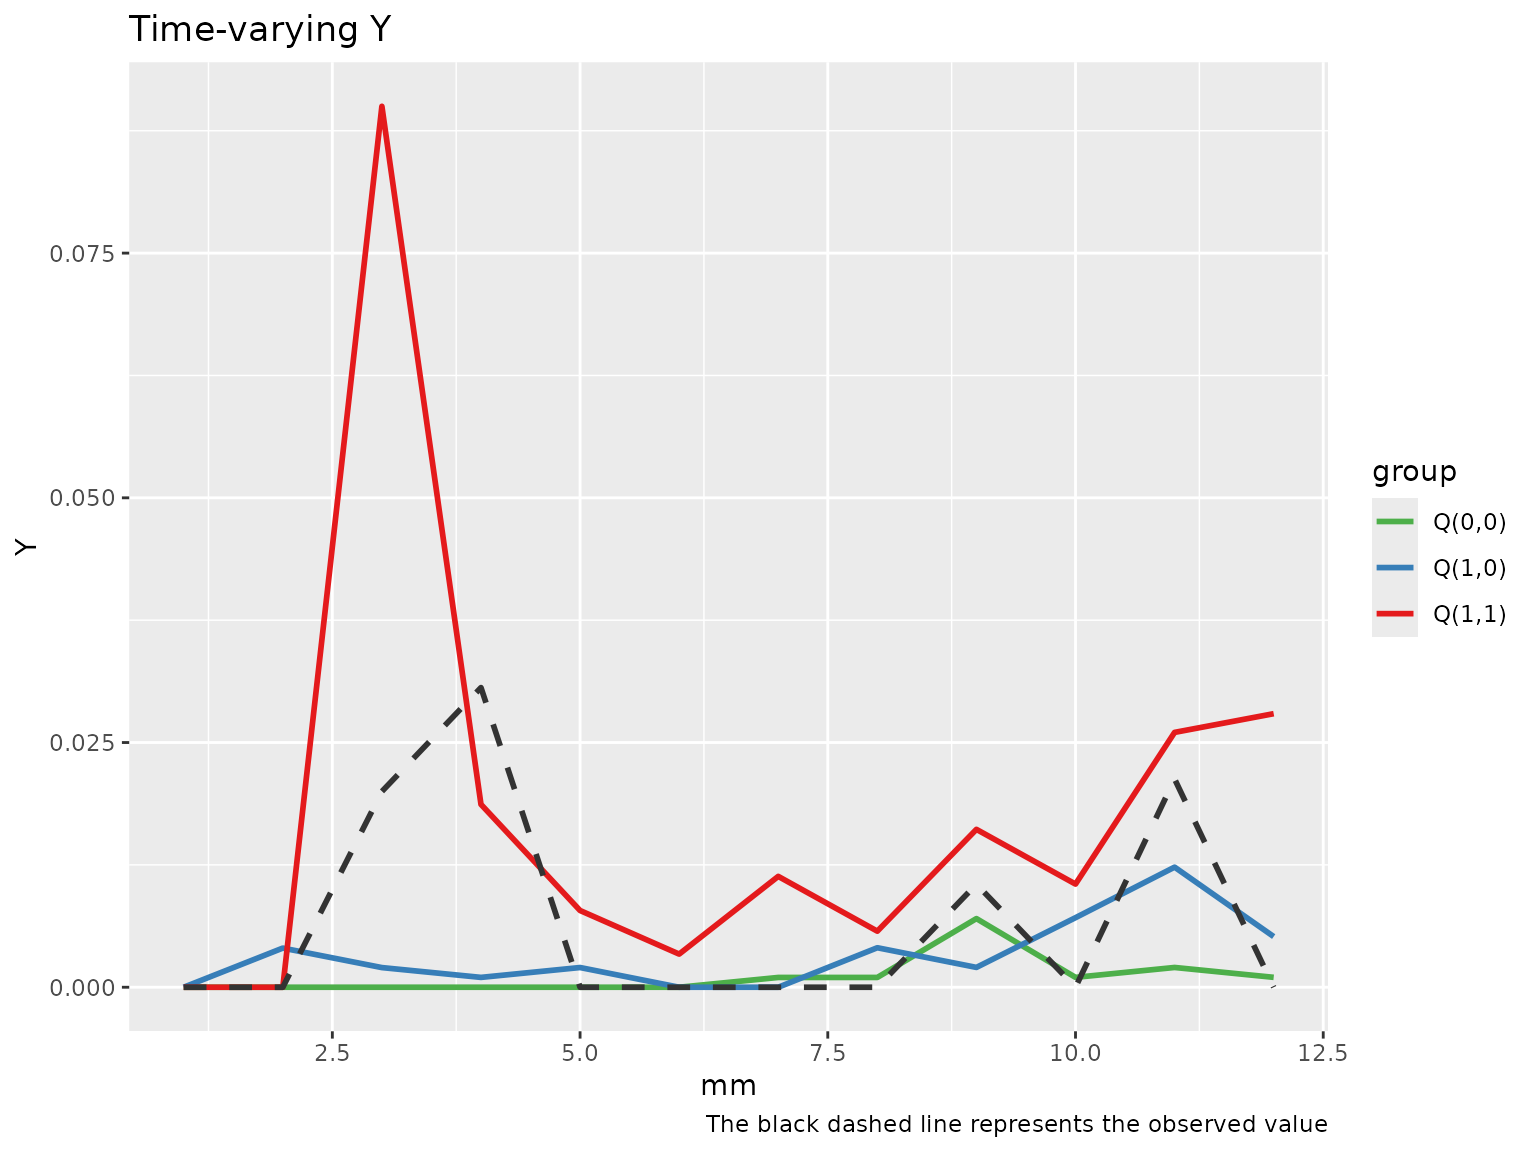
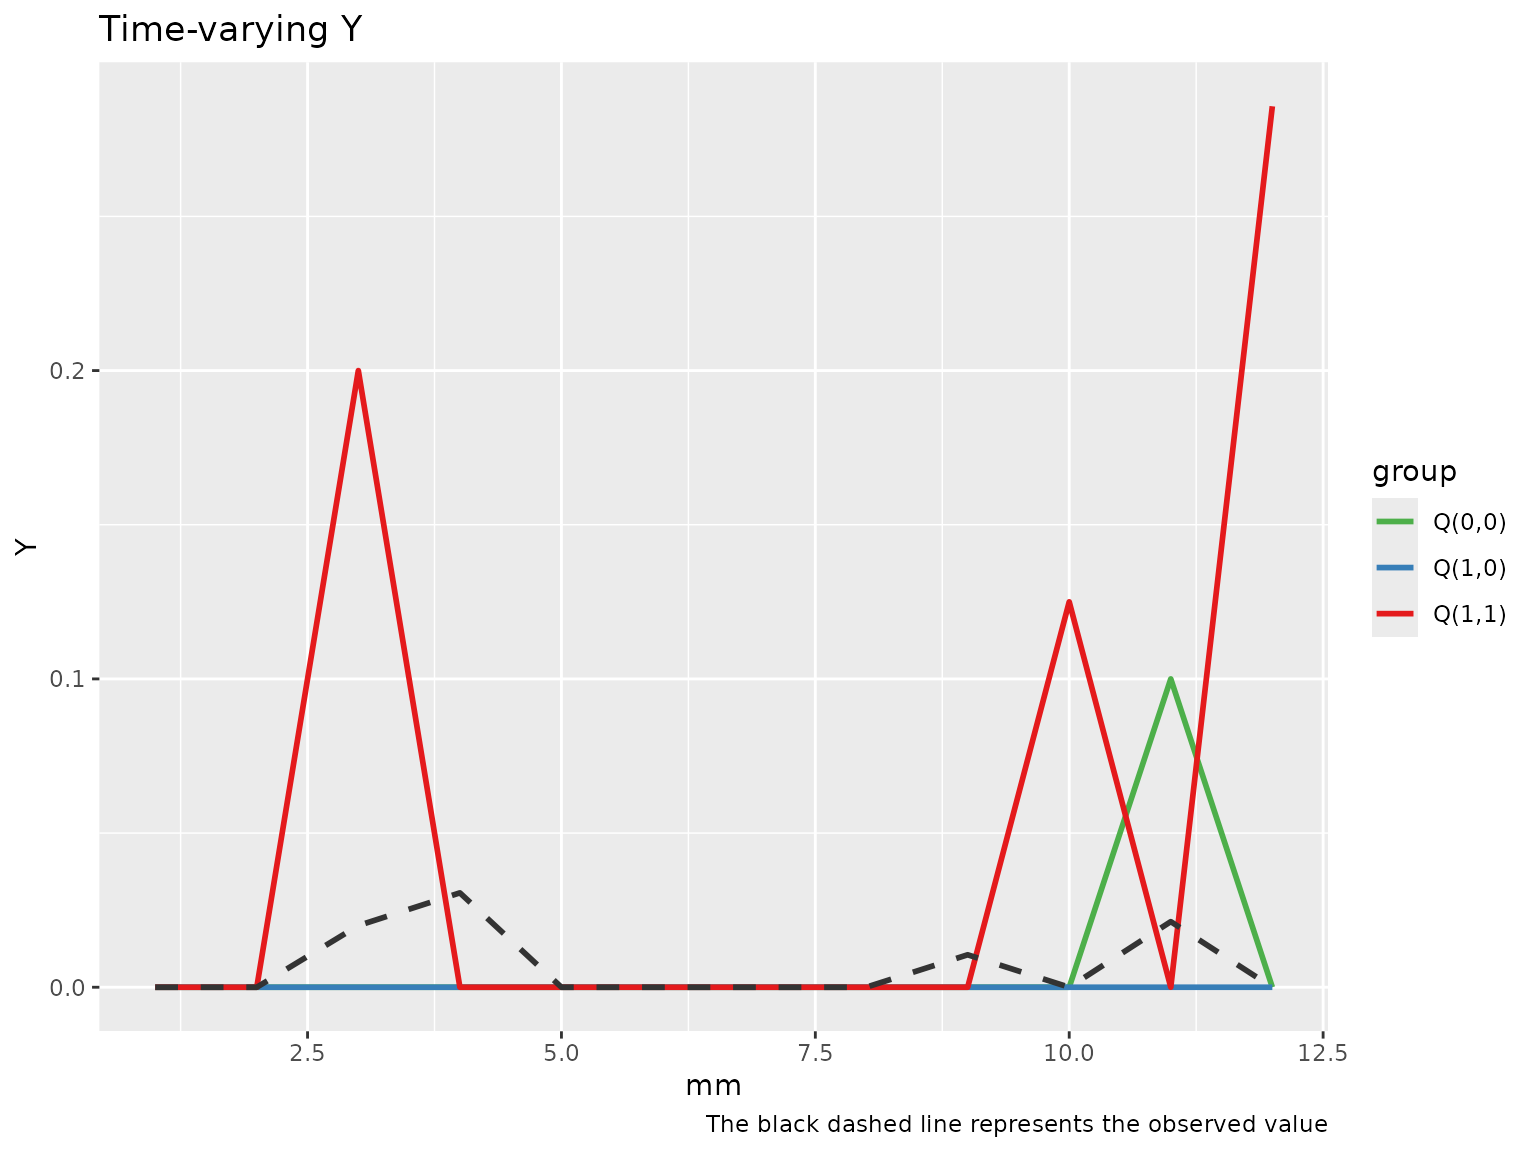
Deploying to gh-pages from @ causalepi/tvmedg@5de4c0a34f49796b642d5c7d19e0649082945fa7 🚀

diff --git a/articles/single_mediator.html b/articles/single_mediator.html
@@ -164,17 +164,17 @@ using 1000 Monte Carlo samples.</p>
 <span>                   sp_df <span class="op">=</span> <span class="fu"><a href="https://rdrr.io/r/base/c.html" class="external-link">c</a></span><span class="op">(</span><span class="fl">3</span><span class="op">)</span>,</span>
 <span>                   followup <span class="op">=</span> <span class="fl">12</span>,</span>
 <span>                   seed <span class="op">=</span> <span class="fl">123</span>,</span>
-<span>                   montecarlo <span class="op">=</span> <span class="fl">1000</span>,</span>
+<span>                   montecarlo <span class="op">=</span> <span class="fl">10</span>,</span>
 <span>                   boot <span class="op">=</span> <span class="cn">F</span>,</span>
 <span>                   parallel <span class="op">=</span> <span class="cn">TRUE</span><span class="op">)</span></span>
-<span><span class="co">#&gt; Q(a,a): 0.2 </span></span>
-<span><span class="co">#&gt; Q(a,a*): 0.039 </span></span>
-<span><span class="co">#&gt; Q(a*,a*): 0.013 </span></span>
-<span><span class="co">#&gt; Indirect (rIE): 0.161 </span></span>
-<span><span class="co">#&gt; Direct (rDE): 0.026 </span></span>
-<span><span class="co">#&gt; Total (rTE): 0.187 </span></span>
-<span><span class="co">#&gt; Proportional explain: 0.861 </span></span>
-<span><span class="co">#&gt; Total time elapsed: 6.11227 mins</span></span>
+<span><span class="co">#&gt; Q(a,a): 0.5 </span></span>
+<span><span class="co">#&gt; Q(a,a*): 0 </span></span>
+<span><span class="co">#&gt; Q(a*,a*): 0.1 </span></span>
+<span><span class="co">#&gt; Indirect (rIE): 0.5 </span></span>
+<span><span class="co">#&gt; Direct (rDE): -0.1 </span></span>
+<span><span class="co">#&gt; Total (rTE): 0.4 </span></span>
+<span><span class="co">#&gt; Proportional explain: 1.25 </span></span>
+<span><span class="co">#&gt; Total time elapsed: 5.188118 secs</span></span>
 <span><span class="fu"><a href="https://rdrr.io/r/parallel/makeCluster.html" class="external-link">stopCluster</a></span><span class="op">(</span><span class="va">cl</span><span class="op">)</span></span></code></pre></div>
 </div>
 <div class="section level3">
@@ -211,19 +211,19 @@ example, we run only 5 bootstrap iterations.</p>
 <span>                      sp_df <span class="op">=</span> <span class="fu"><a href="https://rdrr.io/r/base/c.html" class="external-link">c</a></span><span class="op">(</span><span class="fl">3</span><span class="op">)</span>,</span>
 <span>                      followup <span class="op">=</span> <span class="fl">12</span>,</span>
 <span>                      seed <span class="op">=</span> <span class="fl">123</span>,</span>
-<span>                      montecarlo <span class="op">=</span> <span class="fl">1000</span>,</span>
+<span>                      montecarlo <span class="op">=</span> <span class="fl">10</span>,</span>
 <span>                      boot <span class="op">=</span> <span class="cn">T</span>,</span>
 <span>                      nboot <span class="op">=</span> <span class="fl">5</span>,</span>
 <span>                      ci <span class="op">=</span> <span class="fl">.95</span>,</span>
 <span>                     parallel <span class="op">=</span> <span class="cn">TRUE</span><span class="op">)</span></span>
-<span><span class="co">#&gt; Q(a,a): 0.815 (0, 0.92) </span></span>
-<span><span class="co">#&gt; Q(a,a*): 0.792 (0.001, 0.906) </span></span>
-<span><span class="co">#&gt; Q(a*,a*): 0 (0, 0.268) </span></span>
-<span><span class="co">#&gt; Indirect (rIE): 0.023 (-0.015, 0.13) </span></span>
-<span><span class="co">#&gt; Direct (rDE): 0.792 (-0.261, 0.905) </span></span>
-<span><span class="co">#&gt; Total (rTE): 0.815 (-0.204, 0.919) </span></span>
-<span><span class="co">#&gt; Proportional explain: 0.028 (-0.275, 0.697) </span></span>
-<span><span class="co">#&gt; Total time elapsed: 31.58631 mins</span></span>
+<span><span class="co">#&gt; Q(a,a): 0.7 (0.06, 1) </span></span>
+<span><span class="co">#&gt; Q(a,a*): 0.6 (0.01, 1) </span></span>
+<span><span class="co">#&gt; Q(a*,a*): 0 (0, 0.55) </span></span>
+<span><span class="co">#&gt; Indirect (rIE): 0.1 (0, 0.73) </span></span>
+<span><span class="co">#&gt; Direct (rDE): 0.6 (-0.54, 1) </span></span>
+<span><span class="co">#&gt; Total (rTE): 0.7 (-0.48, 1) </span></span>
+<span><span class="co">#&gt; Proportional explain: 0.143 (0, 0.917) </span></span>
+<span><span class="co">#&gt; Total time elapsed: 20.93741 secs</span></span>
 <span><span class="fu"><a href="https://rdrr.io/r/parallel/makeCluster.html" class="external-link">stopCluster</a></span><span class="op">(</span><span class="va">cl</span><span class="op">)</span></span></code></pre></div>
 </div>
 <div class="section level3">

diff --git a/index.html b/index.html
@@ -123,17 +123,17 @@
 <span>       sp_df <span class="op">=</span> <span class="fu"><a href="https://rdrr.io/r/base/c.html" class="external-link">c</a></span><span class="op">(</span><span class="fl">3</span><span class="op">)</span>,</span>
 <span>       followup <span class="op">=</span> <span class="fl">12</span>,</span>
 <span>       seed <span class="op">=</span> <span class="fl">123</span>,</span>
-<span>       montecarlo <span class="op">=</span> <span class="fl">1000</span>,</span>
+<span>       montecarlo <span class="op">=</span> <span class="fl">100</span>,</span>
 <span>       boot <span class="op">=</span> <span class="cn">F</span>,</span>
 <span>       parallel <span class="op">=</span> <span class="cn">TRUE</span><span class="op">)</span></span>
-<span><span class="co">#&gt; Q(a,a): 0.222 </span></span>
-<span><span class="co">#&gt; Q(a,a*): 0.033 </span></span>
-<span><span class="co">#&gt; Q(a*,a*): 0.014 </span></span>
-<span><span class="co">#&gt; Indirect (rIE): 0.189 </span></span>
-<span><span class="co">#&gt; Direct (rDE): 0.019 </span></span>
-<span><span class="co">#&gt; Total (rTE): 0.208 </span></span>
-<span><span class="co">#&gt; Proportional explain: 0.909 </span></span>
-<span><span class="co">#&gt; Total time elapsed: 2.758889 mins</span></span>
+<span><span class="co">#&gt; Q(a,a): 0.15 </span></span>
+<span><span class="co">#&gt; Q(a,a*): 0.02 </span></span>
+<span><span class="co">#&gt; Q(a*,a*): 0.02 </span></span>
+<span><span class="co">#&gt; Indirect (rIE): 0.13 </span></span>
+<span><span class="co">#&gt; Direct (rDE): 0 </span></span>
+<span><span class="co">#&gt; Total (rTE): 0.13 </span></span>
+<span><span class="co">#&gt; Proportional explain: 1 </span></span>
+<span><span class="co">#&gt; Total time elapsed: 19.29224 secs</span></span>
 <span></span>
 <span><span class="fu"><a href="https://rdrr.io/r/parallel/makeCluster.html" class="external-link">stopCluster</a></span><span class="op">(</span><span class="va">cl</span><span class="op">)</span></span></code></pre></div>
 </div>
